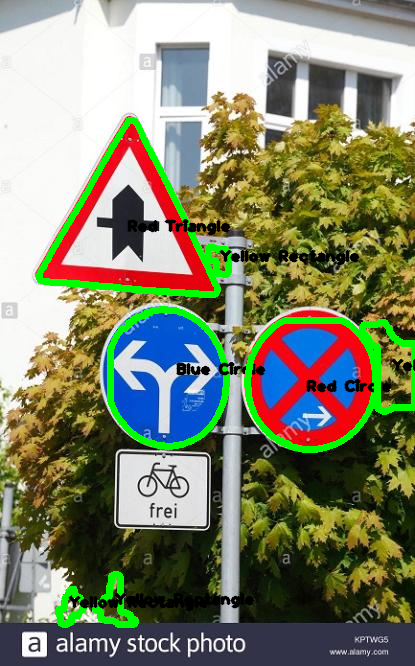
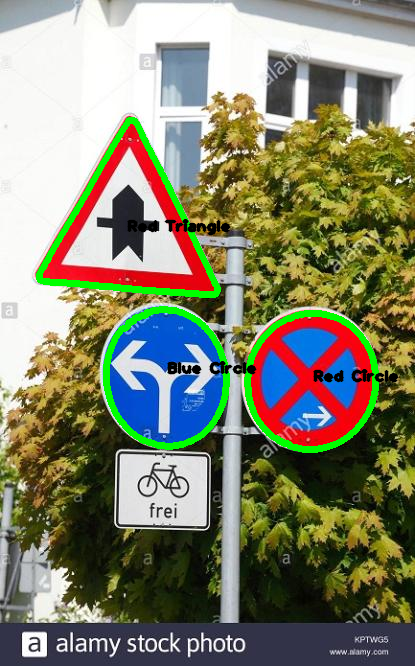
Improved yellow

diff --git a/project1/src/utils.py b/project1/src/utils.py
@@ -48,8 +48,8 @@ HSV_RANGES = {
     # yellow is a minor color
     'Yellow': [
         {
-            'lower': np.array([21, 39, 64]),
-            'upper': np.array([40, 255, 255])
+            'lower': np.array([25, 200, 100]),
+            'upper': np.array([35, 255, 255])
         }
     ],
     # green is a major color
